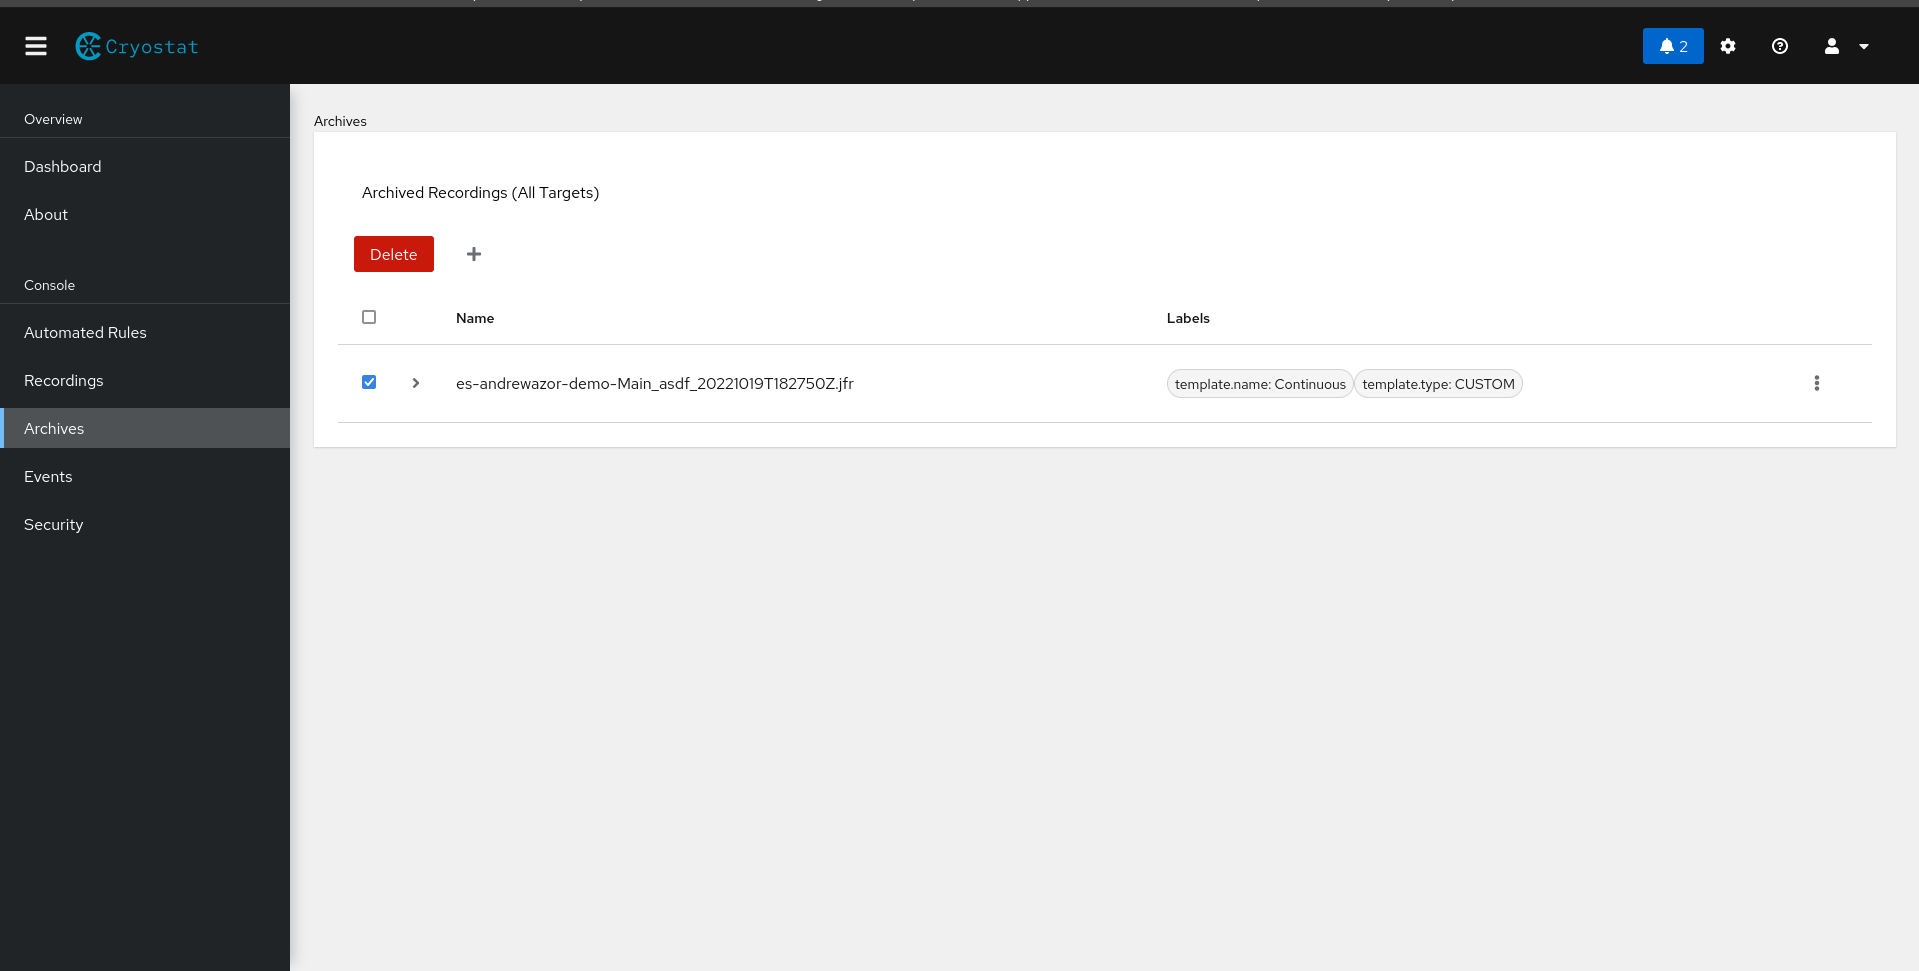
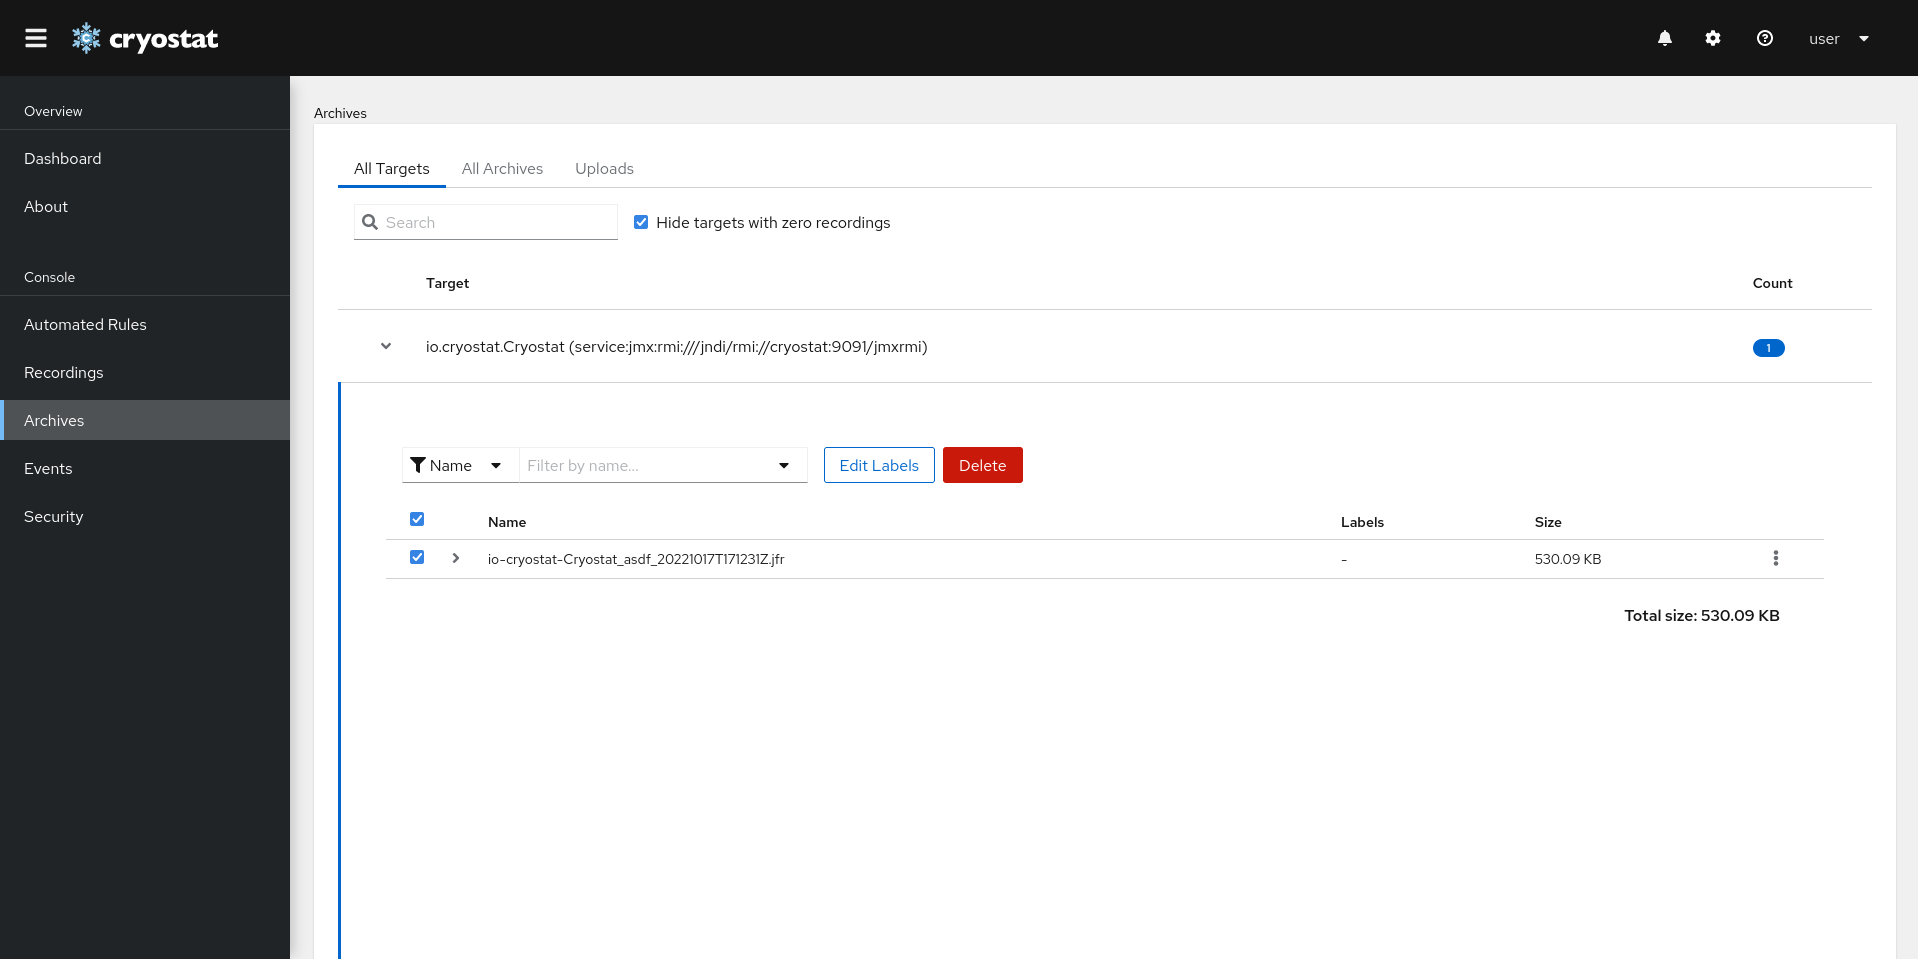
added subsection for view archived recordings

diff --git a/guides/_subsections/view-archived-recordings.md b/guides/_subsections/view-archived-recordings.md
@@ -1,4 +1,5 @@
 ## [Viewing Archived Recordings](#view-archived-recordings)
+<<<<<<< HEAD
 There are two ways to view <i>Archived Recordings</i>. The first method is to navigate to the Archived Recordings tab. See <a href="#archive-a-recording">Archive a Recording</a>.
 
 ### [Archives View](#archives-view)
@@ -29,3 +30,78 @@ The Archives view gathers all of Cryostat's saved archived recordings into one v
     %}
   </li>
 </ol>
+=======
+There are several ways to view <i>Archived Recordings</i>. The first method is to navigate to the Archived Recordings tabs as mentioned in the previous section. See <a href="#archive-a-recording">Archive a Recording</a>.
+
+### [All-Targets Archives View](#all-targets-archives-view)
+
+The second method is to navigate to the new <i>All-Targets</i> archived recording view within the <i>Archives</i> tab on Cryostat console sidebar.
+
+The All-Targets view is a view which gathers all of Cryostat's discovered target JVM applications into one section for ease of access. In this view, we are able to interact with any archived recordings that have been saved from a source target by opening a target's nested recordings table. 
+
+<ol>
+  <li>
+    {% capture navigate-to-all-targets-include-text %}
+    <p>
+        Click on the <i>Archives</i> tab on the sidebar, and the first tab should automatically be selected as the <i>All Targets</i> Archives view. 
+    </p>
+    {% endcapture %}
+    {% include howto_step.html
+        summary="Navigate to the All-Targets Archived Recordings view"
+        caption="The option to automatically hide all targets with zero archived recordings is on by default and can be toggled."
+        image-name="navigate-to-all-targets.png"
+        text=navigate-to-all-targets-include-text
+    %}
+
+  </li>
+  <li>
+    {% capture click-on-source-target-include-text %}
+    <p>
+        Clicking the dropdown arrow next to a target's alias will list any archived recordings originating from that source target.
+    </p>
+    {% endcapture %}
+    {% include howto_step.html
+        summary="Select a source target application"
+        image-name="view-archives-recordings-1.png"
+        text=click-on-source-target-include-text
+    %}
+  </li>
+</ol>
+
+### [All-Archives Archives View](#all-archives-archives-view)
+
+The third method is to navigate to the new <i>All-Archives</i> archived recording view within the <i>Archives</i> tab on Cryostat console sidebar. 
+
+The All-Archives view is a view which queries Cryostat's internal file-system for any archived recordings that have been created during runtime. The web-client maps the directories into nested recordings tables, laid out in rows.
+
+A Cryostat file-system directory is created and used to store archived recordings that have been saved from an active target JVM. This view is used to save any lost archived recordings in case any target JVM expectedly or unexpectedly restarts. The view will be empty if no recordings are currently saved into the file-system.
+
+<ol>
+  <li>
+    {% capture navigate-to-all-archives-include-text %}
+    <p>
+        Click on the <i>Archives</i> tab on the sidebar, and select the second tab titled <i>All Archives</i>.
+    </p>
+    {% endcapture %}
+    {% include howto_step.html
+        summary="Navigate to the All-Archives Archived Recordings view"
+        image-name="navigate-to-all-archives.png"
+        text=navigate-to-all-archives-include-text
+    %}
+
+  </li>
+  <li>
+      {% capture click-on-directory-include-text %}
+    <p>
+        Clicking the dropdown arrow next to a directory name will list any archived recordings within that directory in the Cryostat container filesystem. Again, we can interact with any archived recordings in a similar fashion as before.
+    </p>
+    {% endcapture %}
+    {% include howto_step.html
+        summary="Select an archives directory"
+        image-name="view-archives-recordings-2.png"
+        caption="A directory name is related to its corresponding source target's serviceUrl. Mousing over the tooltip, we can also see a Cryostat generated hash id for that target."
+        text=click-on-directory-include-text
+    %}
+  </li>
+</ol>
+>>>>>>> 1d40844 (added subsection for view archived recordings)
